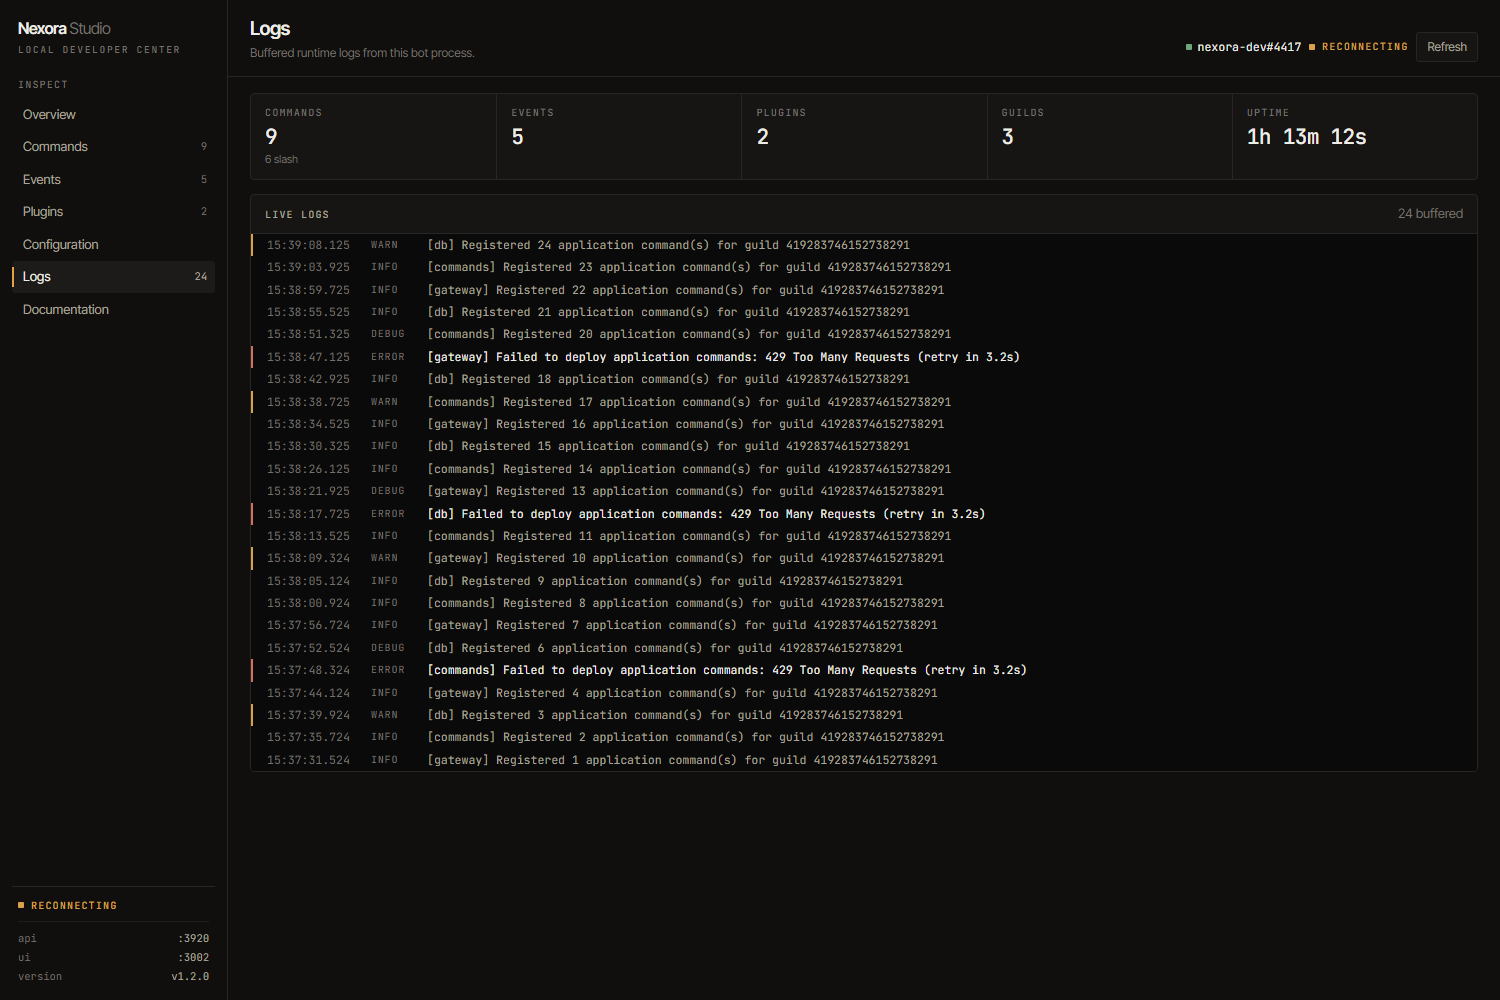
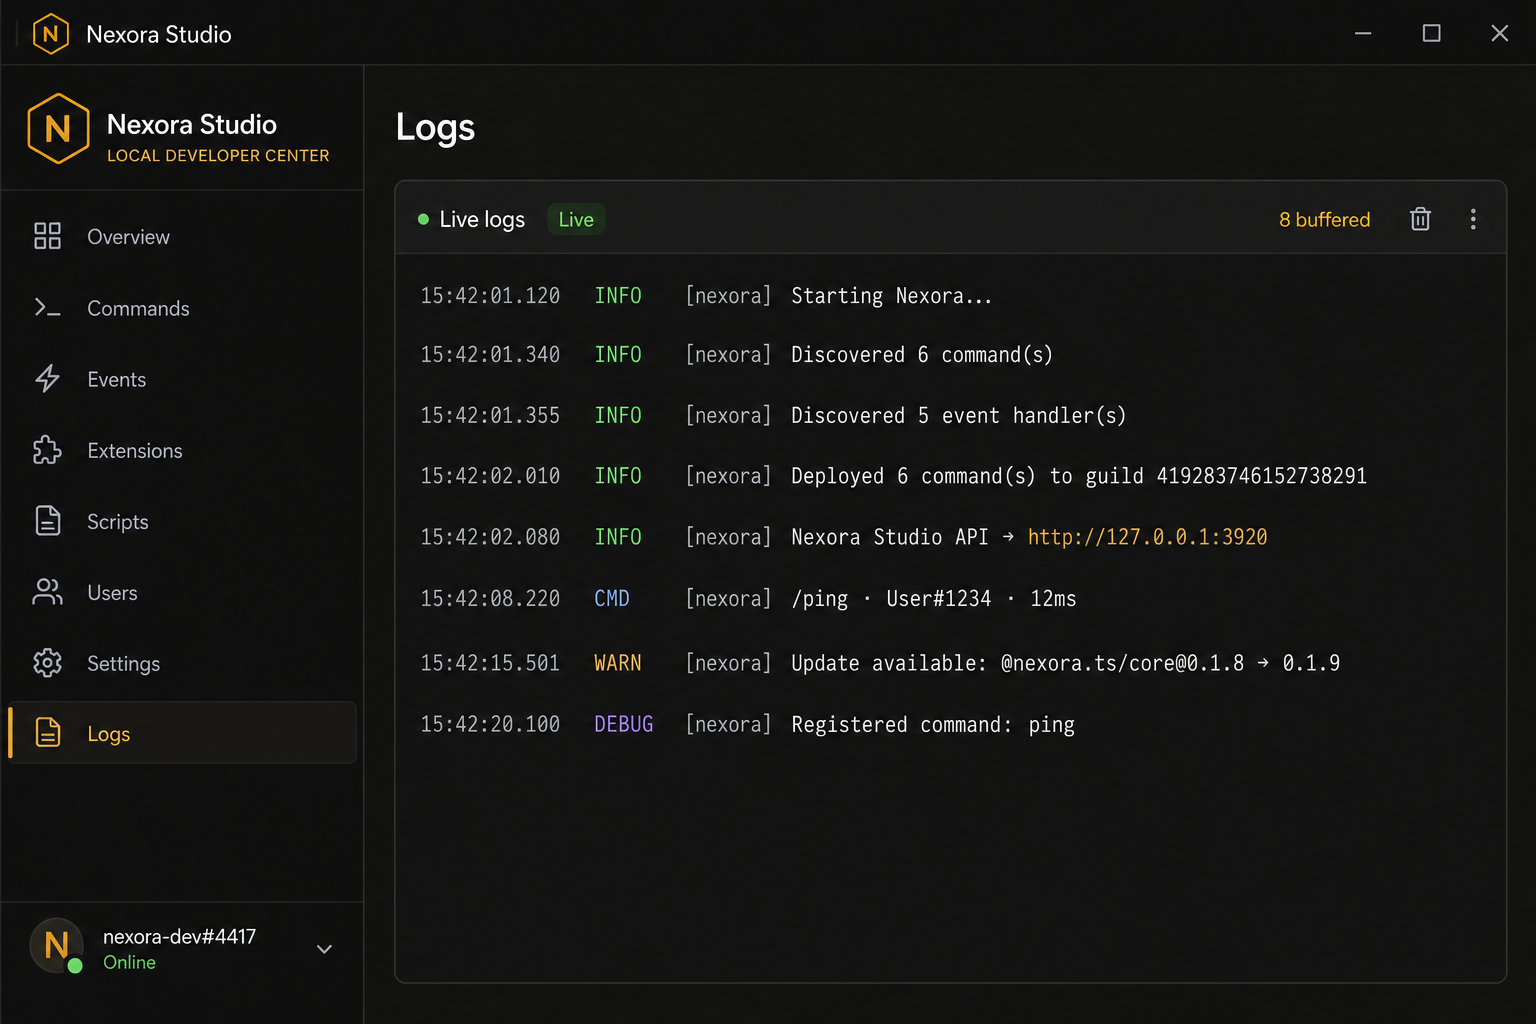
Enhance Studio log viewer with cmd type and meta
- Add `meta` field to LogEntry for structured log metadata
- Display command log entries with 'cmd' level and purple accent styling
- Show meta fields (user, command name, duration, file) in log lines
- Improve logTime() to parse ISO timestamps; fall back to regex for partial strings
- Subscribe to live logs in constructor (attachLiveLogBuffer) so logs during bot.start() aren't lost
- Fan-out new log entries immediately to connected Studio WebSocket clients
- Sync changes across both the React Studio app and the standalone HTML UI

diff --git a/packages/dev-server/src/ui-html.ts b/packages/dev-server/src/ui-html.ts
@@ -295,12 +295,17 @@ export function getStudioHtml(): string {
     .log-line:hover { background: rgba(255, 255, 255, 0.025); }
     .log-line.is-warn { border-left-color: var(--warn); }
     .log-line.is-err { border-left-color: var(--err); }
+    .log-line.is-cmd { border-left-color: #8b6bb8; }
     .log-line .ts { color: var(--text-mute); font-variant-numeric: tabular-nums; white-space: nowrap; }
     .log-line .lvl {
       text-transform: uppercase; font-size: 10px; letter-spacing: 0.08em;
       color: var(--text-mute); padding-top: 1px;
     }
+    .log-line .lvl.err { color: var(--err); }
+    .log-line .lvl.warn { color: var(--warn); }
+    .log-line .lvl.cmd { color: #b39ddb; }
     .log-line .msg { color: var(--text-dim); word-break: break-word; }
+    .log-line .msg .meta { color: var(--text-mute); }
     .log-line.is-err .msg { color: var(--text); }
 
     .docs-hero { padding: 26px 22px 24px; }
@@ -552,9 +557,28 @@ export function getStudioHtml(): string {
     }
 
     function logTime(ts) {
-      const s = String(ts ?? '');
-      const m = s.match(/(\\d{2}:\\d{2}:\\d{2}(?:\\.\\d{1,3})?)/);
-      return m ? m[1] : s;
+      var d = new Date(ts);
+      if (Number.isNaN(d.getTime())) {
+        var m = String(ts ?? '').match(/(\d{2}:\d{2}:\d{2}(?:\.\d{1,3})?)/);
+        return m ? m[1] : String(ts ?? '');
+      }
+      function pad(n, w) { return String(n).padStart(w || 2, '0'); }
+      return pad(d.getHours()) + ':' + pad(d.getMinutes()) + ':' + pad(d.getSeconds()) + '.' + pad(d.getMilliseconds(), 3);
+    }
+
+    function displayLevel(entry) {
+      return entry && entry.meta && entry.meta.type === 'command' ? 'cmd' : (entry && entry.level) || 'info';
+    }
+
+    function formatLogMeta(meta) {
+      if (!meta) return '';
+      var parts = [];
+      if (typeof meta.user === 'string') parts.push(meta.user);
+      if (typeof meta.name === 'string' && meta.type === 'command') parts.push('/' + meta.name);
+      if (typeof meta.duration === 'number') parts.push(meta.duration + 'ms');
+      else if (typeof meta.duration === 'string') parts.push(meta.duration);
+      if (typeof meta.file === 'string') parts.push(meta.file);
+      return parts.length ? ' · ' + parts.join(' · ') : '';
     }
 
     function formatCooldown(ms) {
@@ -937,19 +961,22 @@ export function getStudioHtml(): string {
 
     function renderLogs(el) {
       const lines = [...logs].reverse().map((l) => {
-        const mod = l.level === 'error' ? ' is-err' : l.level === 'warn' ? ' is-warn' : '';
-        const lvlCls = l.level === 'error' ? ' err' : l.level === 'warn' ? ' warn' : '';
+        const level = displayLevel(l);
+        const mod = l.level === 'error' ? ' is-err' : l.level === 'warn' ? ' is-warn' : level === 'cmd' ? ' is-cmd' : '';
+        const lvlCls = l.level === 'error' ? ' err' : l.level === 'warn' ? ' warn' : level === 'cmd' ? ' cmd' : '';
+        const meta = formatLogMeta(l.meta);
         return '<div class="log-line' + mod + '">' +
           '<span class="ts" title="' + esc(l.timestamp) + '">' + esc(logTime(l.timestamp)) + '</span>' +
-          '<span class="lvl' + lvlCls + '">' + esc(l.level) + '</span>' +
-          '<span class="msg">' + esc((l.context ? '[' + l.context + '] ' : '') + l.message) + '</span>' +
-          '</div>';
+          '<span class="lvl' + lvlCls + '">' + esc(level) + '</span>' +
+          '<span class="msg">' + esc((l.context ? '[' + l.context + '] ' : '') + l.message) +
+          (meta ? '<span class="meta">' + esc(meta) + '</span>' : '') +
+          '</span></div>';
       }).join('');
       el.innerHTML =
         '<div class="panel logs-panel">' +
         '<div class="panel-head"><h2>Live logs</h2><span class="muted">' + logs.length + ' buffered</span></div>' +
         '<div class="panel-body logs">' +
-        (lines || '<p class="empty-note">Waiting for log events…</p>') +
+        (lines || '<p class="empty-note">Waiting for log events from <code>@nexora.ts/logger</code>…</p>') +
         '</div></div>';
     }
 

diff --git a/apps/studio/src/App.tsx b/apps/studio/src/App.tsx
@@ -476,8 +476,33 @@ function Overview({ snapshot }: { snapshot: StudioSnapshot }) {
 }
 
 function logTime(timestamp: string): string {
-  const match = /(\d{2}:\d{2}:\d{2}(?:\.\d{1,3})?)/.exec(timestamp);
-  return match ? match[1]! : timestamp;
+  const d = new Date(timestamp);
+  if (Number.isNaN(d.getTime())) {
+    const match = /(\d{2}:\d{2}:\d{2}(?:\.\d{1,3})?)/.exec(timestamp);
+    return match ? match[1]! : timestamp;
+  }
+  const hh = String(d.getHours()).padStart(2, '0');
+  const mm = String(d.getMinutes()).padStart(2, '0');
+  const ss = String(d.getSeconds()).padStart(2, '0');
+  const ms = String(d.getMilliseconds()).padStart(3, '0');
+  return `${hh}:${mm}:${ss}.${ms}`;
+}
+
+function displayLevel(entry: LogEntry): string {
+  if (entry.meta?.type === 'command') return 'cmd';
+  return entry.level;
+}
+
+function formatLogMeta(meta?: Record<string, unknown>): string {
+  if (!meta) return '';
+  const parts: string[] = [];
+  if (typeof meta.user === 'string') parts.push(meta.user);
+  if (typeof meta.name === 'string' && meta.type === 'command') parts.push(`/${meta.name}`);
+  if (typeof meta.duration === 'number') parts.push(`${meta.duration}ms`);
+  else if (typeof meta.duration === 'string') parts.push(meta.duration);
+  if (typeof meta.file === 'string') parts.push(meta.file);
+  if (parts.length === 0) return '';
+  return ` · ${parts.join(' · ')}`;
 }
 
 function LogsView({ logs }: { logs: LogEntry[] }) {
@@ -489,27 +514,34 @@ function LogsView({ logs }: { logs: LogEntry[] }) {
       </div>
       <div className="panel-body logs">
         {logs.length === 0 ? (
-          <p className="empty-note">Waiting for log events…</p>
+          <p className="empty-note">
+            Waiting for log events from <code>@nexora.ts/logger</code> (via{' '}
+            <code>createLiveLogger</code>)…
+          </p>
         ) : (
-          [...logs].reverse().map((line, index) => (
-            <div
-              className={`log-line ${line.level === 'error' ? 'is-err' : line.level === 'warn' ? 'is-warn' : ''}`}
-              key={`${line.timestamp}-${index}`}
-            >
-              <span className="ts" title={line.timestamp}>
-                {logTime(line.timestamp)}
-              </span>
-              <span
-                className={`lvl ${line.level === 'error' ? 'err' : line.level === 'warn' ? 'warn' : ''}`}
+          [...logs].reverse().map((line, index) => {
+            const level = displayLevel(line);
+            return (
+              <div
+                className={`log-line ${line.level === 'error' ? 'is-err' : line.level === 'warn' ? 'is-warn' : level === 'cmd' ? 'is-cmd' : ''}`}
+                key={`${line.timestamp}-${index}`}
               >
-                {line.level}
-              </span>
-              <span className="msg">
-                {line.context ? `[${line.context}] ` : ''}
-                {line.message}
-              </span>
-            </div>
-          ))
+                <span className="ts" title={line.timestamp}>
+                  {logTime(line.timestamp)}
+                </span>
+                <span
+                  className={`lvl ${line.level === 'error' ? 'err' : line.level === 'warn' ? 'warn' : level === 'cmd' ? 'cmd' : ''}`}
+                >
+                  {level}
+                </span>
+                <span className="msg">
+                  {line.context ? `[${line.context}] ` : ''}
+                  {line.message}
+                  <span className="meta">{formatLogMeta(line.meta)}</span>
+                </span>
+              </div>
+            );
+          })
         )}
       </div>
     </div>

diff --git a/packages/dev-server/src/index.ts b/packages/dev-server/src/index.ts
@@ -395,6 +395,9 @@ export class DevServer {
     // Align DI Config token with this package's @nexora.ts/core copy
     // (avoids Symbol identity mismatch across nested installs).
     ensureConfigRegistered(this.bot);
+    // Subscribe ASAP so logs during bot.start() are not lost if start()
+    // is called after createDevServer() but before studioApi.start().
+    this.attachLiveLogBuffer();
     // CLI `nexora dev` sets NEXORA_STUDIO=1 and starts the Vite UI separately.
     const cliOwnsUi =
       process.env.NEXORA_STUDIO === '1' || process.env.NEXORA_STUDIO === 'true';
@@ -415,17 +418,30 @@ export class DevServer {
     this.schedulePush('plugins');
   }
 
-  async start(): Promise<void> {
-    if (this.server) return;
-
-    this.startedAt = new Date();
+  /**
+   * Buffer live logger entries for Studio. Safe to call multiple times
+   * (constructor + start) — only one subscription is kept.
+   */
+  private attachLiveLogBuffer(): void {
+    if (this.unsubscribeLogs) return;
     this.unsubscribeLogs = subscribeLiveLogs((entry) => {
       this.logBuffer.push(entry);
       if (this.logBuffer.length > this.logBufferSize) {
         this.logBuffer.shift();
       }
+      // Immediate log fan-out for open Studio clients (full state still debounced).
+      if (this.wsHub.connectionCount > 0) {
+        this.wsHub.sendStudioLogs([...this.logBuffer]);
+      }
       this.schedulePush('logs');
     });
+  }
+
+  async start(): Promise<void> {
+    if (this.server) return;
+
+    this.startedAt = new Date();
+    this.attachLiveLogBuffer();
 
     this.server = createServer((req, res) => {
       void this.handleApi(req, res);

diff --git a/apps/studio/src/styles.css b/apps/studio/src/styles.css
@@ -908,18 +908,30 @@ table {
   border-left-color: var(--err);
 }
 
+.log-line.is-cmd {
+  border-left-color: #8b6bb8;
+}
+
+.log-line .msg .meta {
+  color: var(--text-mute);
+}
+
 .log-line .ts {
   color: var(--text-mute);
   font-variant-numeric: tabular-nums;
   white-space: nowrap;
 }
 
-.log-line .lvl {
-  text-transform: uppercase;
-  font-size: 10px;
-  letter-spacing: 0.08em;
-  color: var(--text-mute);
-  padding-top: 1px;
+.log-line .lvl.err {
+  color: var(--err);
+}
+
+.log-line .lvl.warn {
+  color: var(--warn);
+}
+
+.log-line .lvl.cmd {
+  color: #b39ddb;
 }
 
 .log-line .msg {

diff --git a/apps/studio/src/api.ts b/apps/studio/src/api.ts
@@ -68,6 +68,7 @@ export interface LogEntry {
   level: string;
   message: string;
   context?: string;
+  meta?: Record<string, unknown>;
 }
 
 export type LiveConnectionState = 'live' | 'reconnecting' | 'offline';
